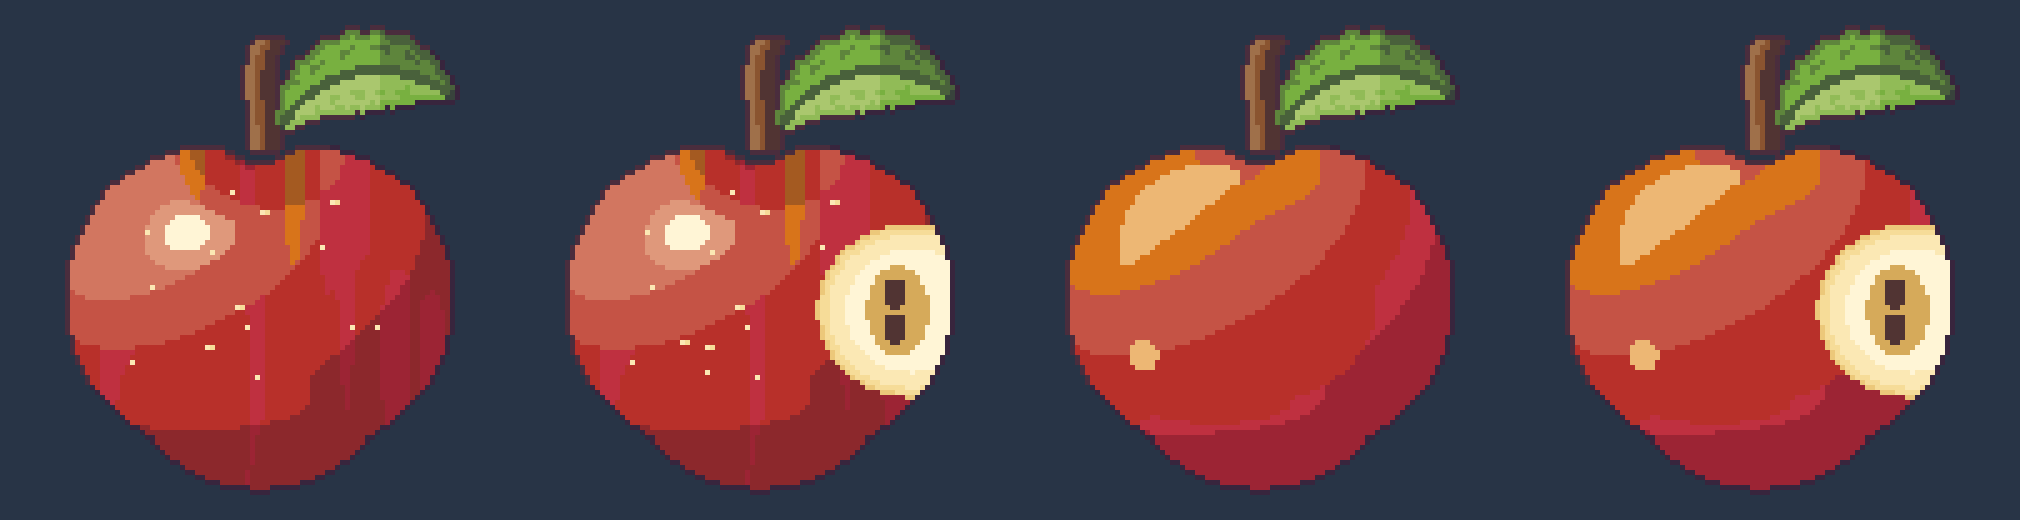
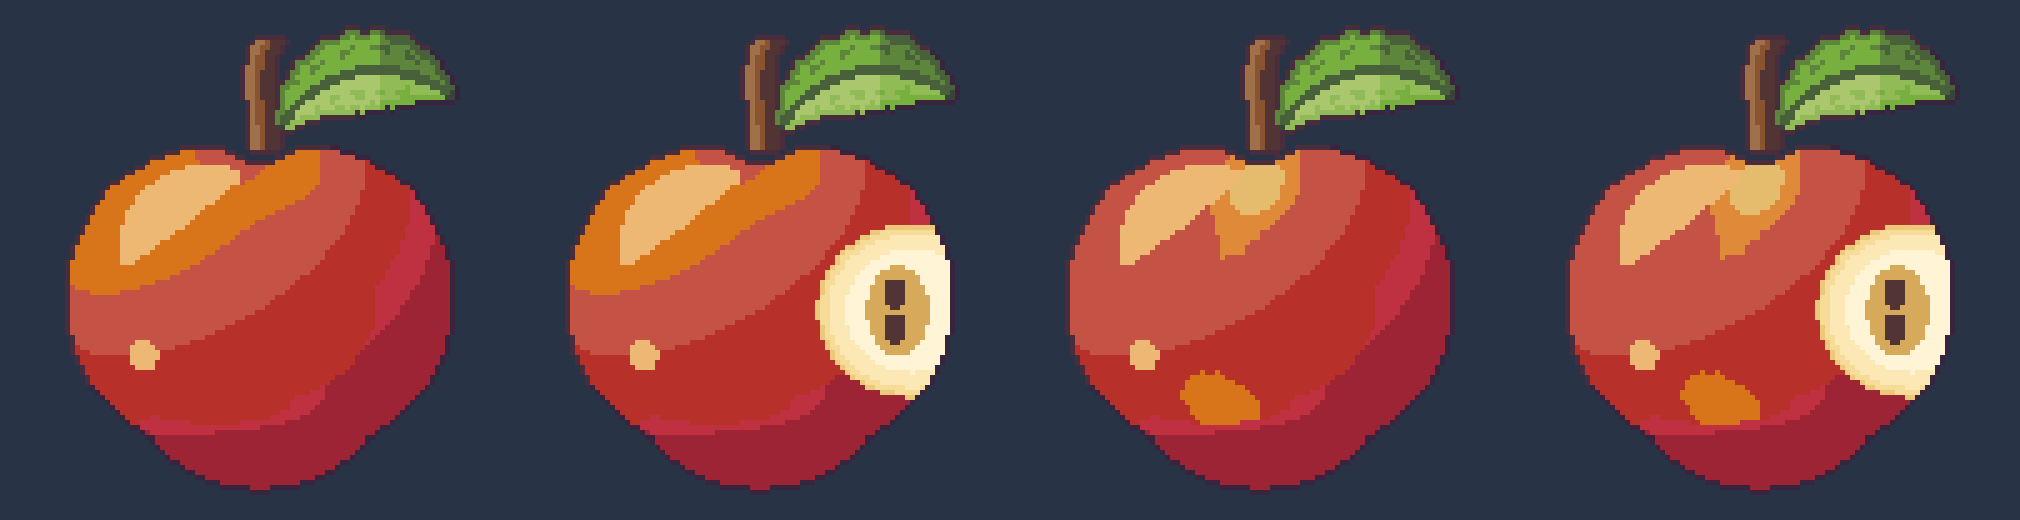
りんご: 写真の色のかたよりを使った版を追加、スキルに手順と失敗を追記
Claude-Session: https://claude.ai/code/session_01StugNUrjnQmKyw4JosAoSb

diff --git a/games/farmhouse/pixel/gen_apple_hd.py b/games/farmhouse/pixel/gen_apple_hd.py
@@ -5,7 +5,7 @@
 """
 import os, math
 import numpy as np
-from PIL import Image
+from PIL import Image, ImageFilter
 import pxl
 HERE = os.path.dirname(os.path.abspath(__file__))
 OUT = os.path.join(HERE, "..", "assets", "items"); os.makedirs(OUT, exist_ok=True)
@@ -24,7 +24,25 @@ def bez(p0, p1, p2, p3, n=120):
     t = np.linspace(0, 1, n)[:, None]; P = [np.array(p, float) for p in (p0, p1, p2, p3)]
     return (1 - t) ** 3 * P[0] + 3 * (1 - t) ** 2 * t * P[1] + 3 * (1 - t) * t ** 2 * P[2] + t ** 3 * P[3]
 
-def apple(S=96, bitten=False, clean=False):
+def photo_warmth(S=96, path='/tmp/claude-0/webref/photo/apple.jpg'):
+    """本物の写真から、色のかたより（赤→だいだい→黄）の大きな地図を取る。写真は茎が左なので、時計まわりに90度まわして、茎を上にする。"""
+    import colorsys
+    im = Image.open(path).convert('RGB'); im = im.rotate(-90, expand=True)
+    a = np.asarray(im.resize((im.width // 6, im.height // 6), Image.BOX)).astype(float)
+    m = (a[..., 0] - a[..., 2] > 70) & (a[..., 0] > 120)
+    ys, xs = np.nonzero(m); box = (xs.min(), ys.min(), xs.max() + 1, ys.max() + 1)
+    sm = Image.fromarray(a.astype(np.uint8)).crop(box).resize((S, S), Image.BOX)
+    sm = sm.filter(ImageFilter.GaussianBlur(S * .045)); b = np.asarray(sm).astype(float) / 255
+    hue = np.zeros((S, S)); val = np.zeros((S, S))
+    for yy in range(S):
+        for xx in range(S):
+            h_, s_, v_ = colorsys.rgb_to_hsv(*b[yy, xx]); hue[yy, xx] = h_ * 360; val[yy, xx] = v_
+    hh = np.where(hue > 180, hue - 360, hue)
+    lo, hi = np.percentile(hh, 5), np.percentile(hh, 99)
+    warm = np.clip((hh - lo) / (hi - lo + 1e-6), 0, 1)                                          # 0=赤, 1=黄（写真の中の相対）
+    return warm
+
+def apple(S=96, bitten=False, clean=False, warm_map=None):
     k = S / 32.0
     A = np.zeros((S, S, 4), np.uint8); Y, X = np.mgrid[0:S, 0:S]; x = (X + .5) / k; y = (Y + .5) / k      # 32×32 の座標
     # ---- 形
@@ -67,6 +85,11 @@ def apple(S=96, bitten=False, clean=False):
             elif warm[yy, xx]: f, sh = 'H', 4
             elif lam[yy, xx] > .55: f, sh = 'G', 5
             else: f, sh = 'G', 4
+            if warm_map is not None and not core[yy, xx]:                                          # 写真の色のかたよりで、色の系統を変える
+                w_ = warm_map[yy, xx]
+                if w_ > .985: f, sh = 'B', (6 if lam[yy, xx] > .55 else 5)                               # 黄みのまだら
+                elif w_ > .93: f, sh = 'H', (5 if lam[yy, xx] > .55 else 4)                             # だいだい赤
+                elif lam[yy, xx] > .80: f, sh = 'G', 5
             A[yy, xx, :3] = col(f, sh); A[yy, xx, 3] = 255
         # つや：左上のふちにそう、細い弧（太さは中ほどが太く、両はしが細い）
         for tt_ in np.linspace(0, 1, 90):
@@ -142,8 +165,8 @@ def apple(S=96, bitten=False, clean=False):
     return A
 
 if __name__ == "__main__":
-    for nm, im in (("apple_hd", apple(96)), ("apple_hd_bitten", apple(96, True)), ("apple_hd_clean", apple(96, False, True)), ("apple_hd_clean_bitten", apple(96, True, True))):
+    for nm, im in (("apple_hd", apple(96)), ("apple_hd_bitten", apple(96, True)), ("apple_hd_clean", apple(96, False, True)), ("apple_hd_clean_bitten", apple(96, True, True)), ("apple_hd_photo", apple(96, False, True, photo_warmth(96))), ("apple_hd_photo_bitten", apple(96, True, True, photo_warmth(96)))):
         Image.fromarray(im).save(os.path.join(OUT, nm + ".png"))
     bg = Image.new("RGBA", (96 * 4 + 20, 96 + 8), (40, 52, 70, 255))
-    for i_, im_ in enumerate((apple(96), apple(96, True), apple(96, False, True), apple(96, True, True))): bg.alpha_composite(Image.fromarray(im_), (4 + i_ * 100, 4))
+    for i_, im_ in enumerate((apple(96, False, True), apple(96, True, True), apple(96, False, True, photo_warmth(96)), apple(96, True, True, photo_warmth(96)))): bg.alpha_composite(Image.fromarray(im_), (4 + i_ * 100, 4))
     bg.resize((bg.width * 5, bg.height * 5), Image.NEAREST).convert("RGB").save(os.path.join(OUT, "apple_hd_x6.png")); print("ok")
